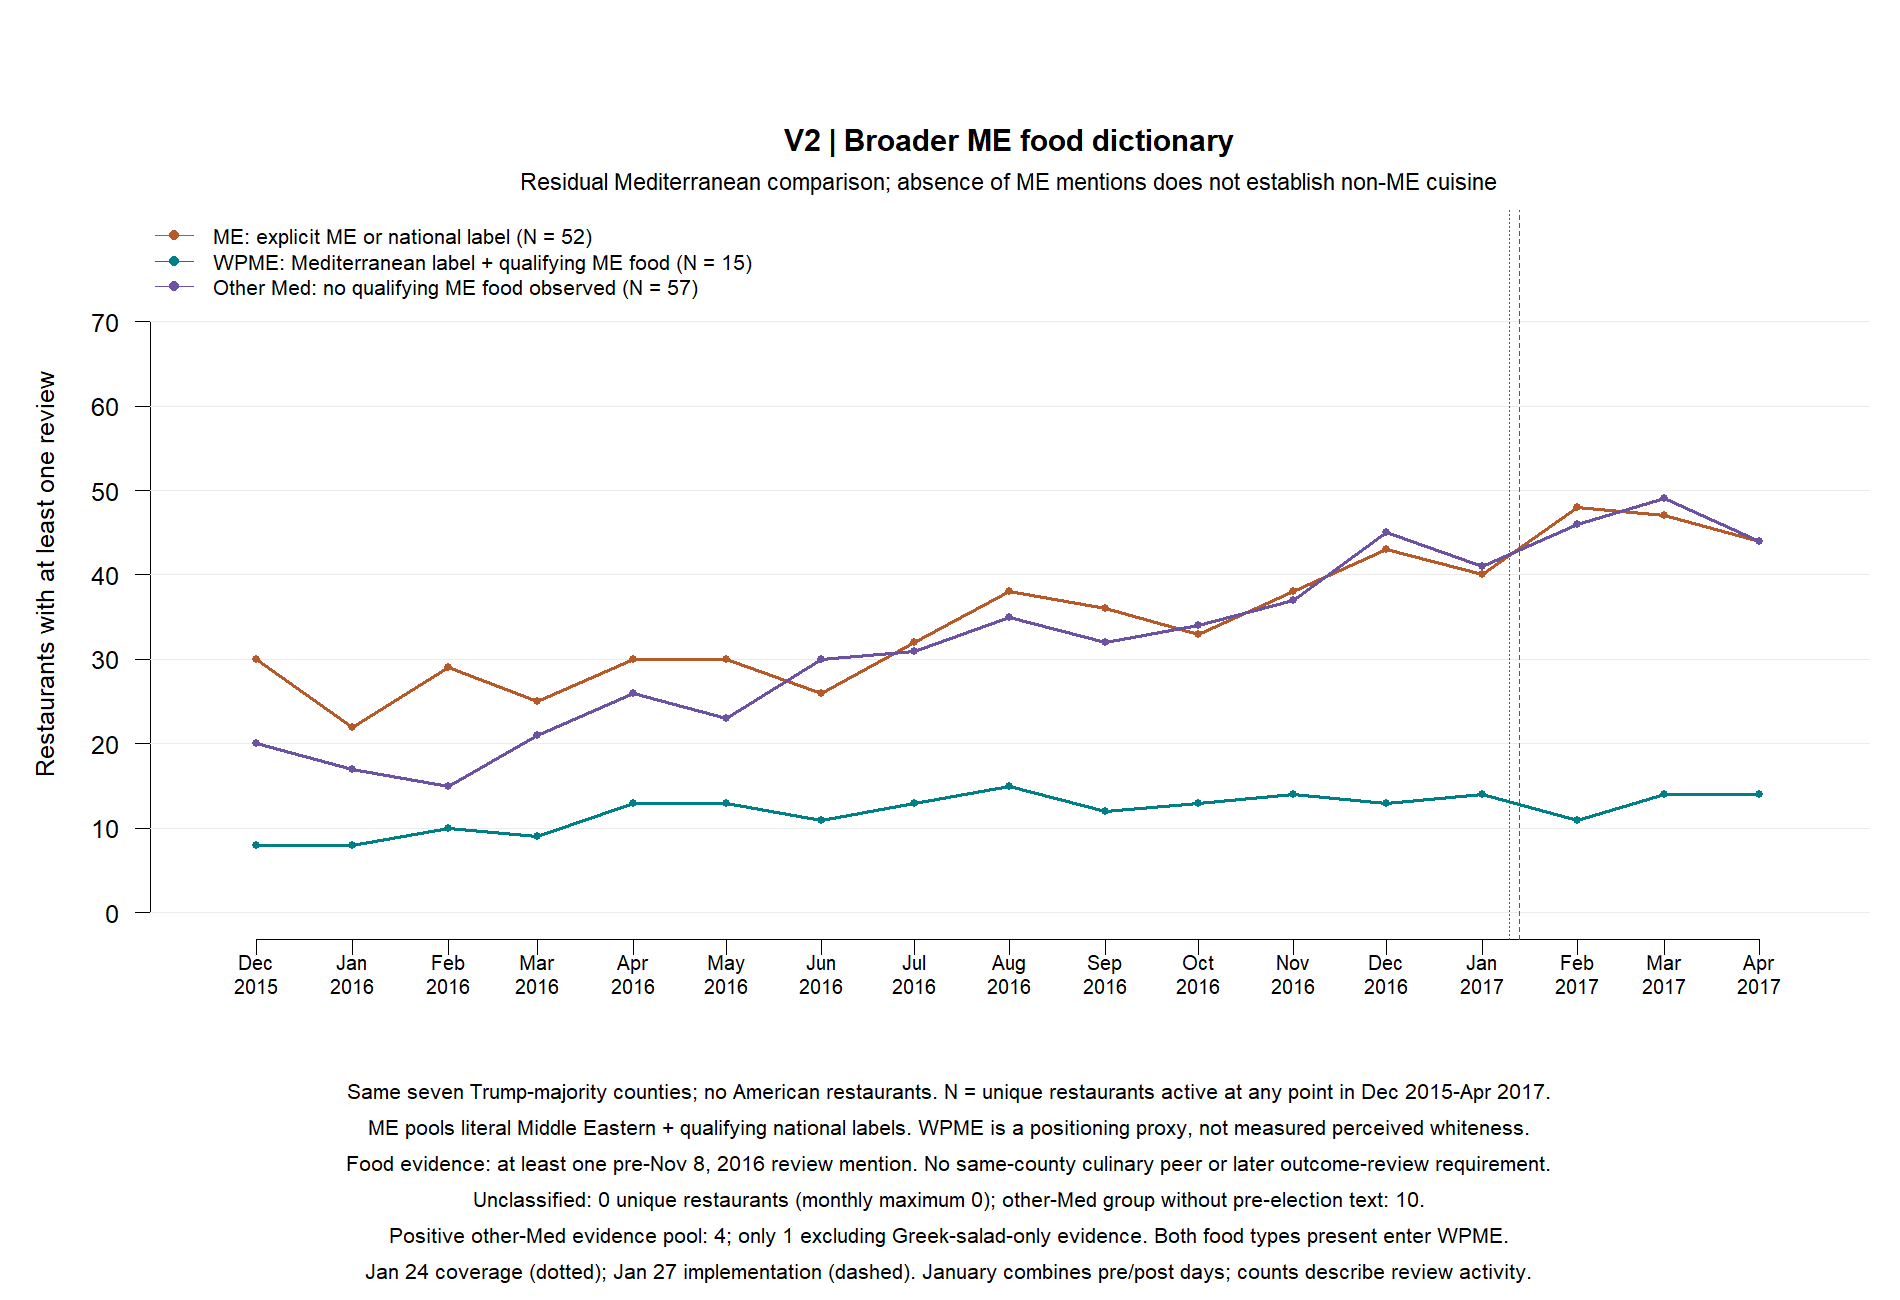
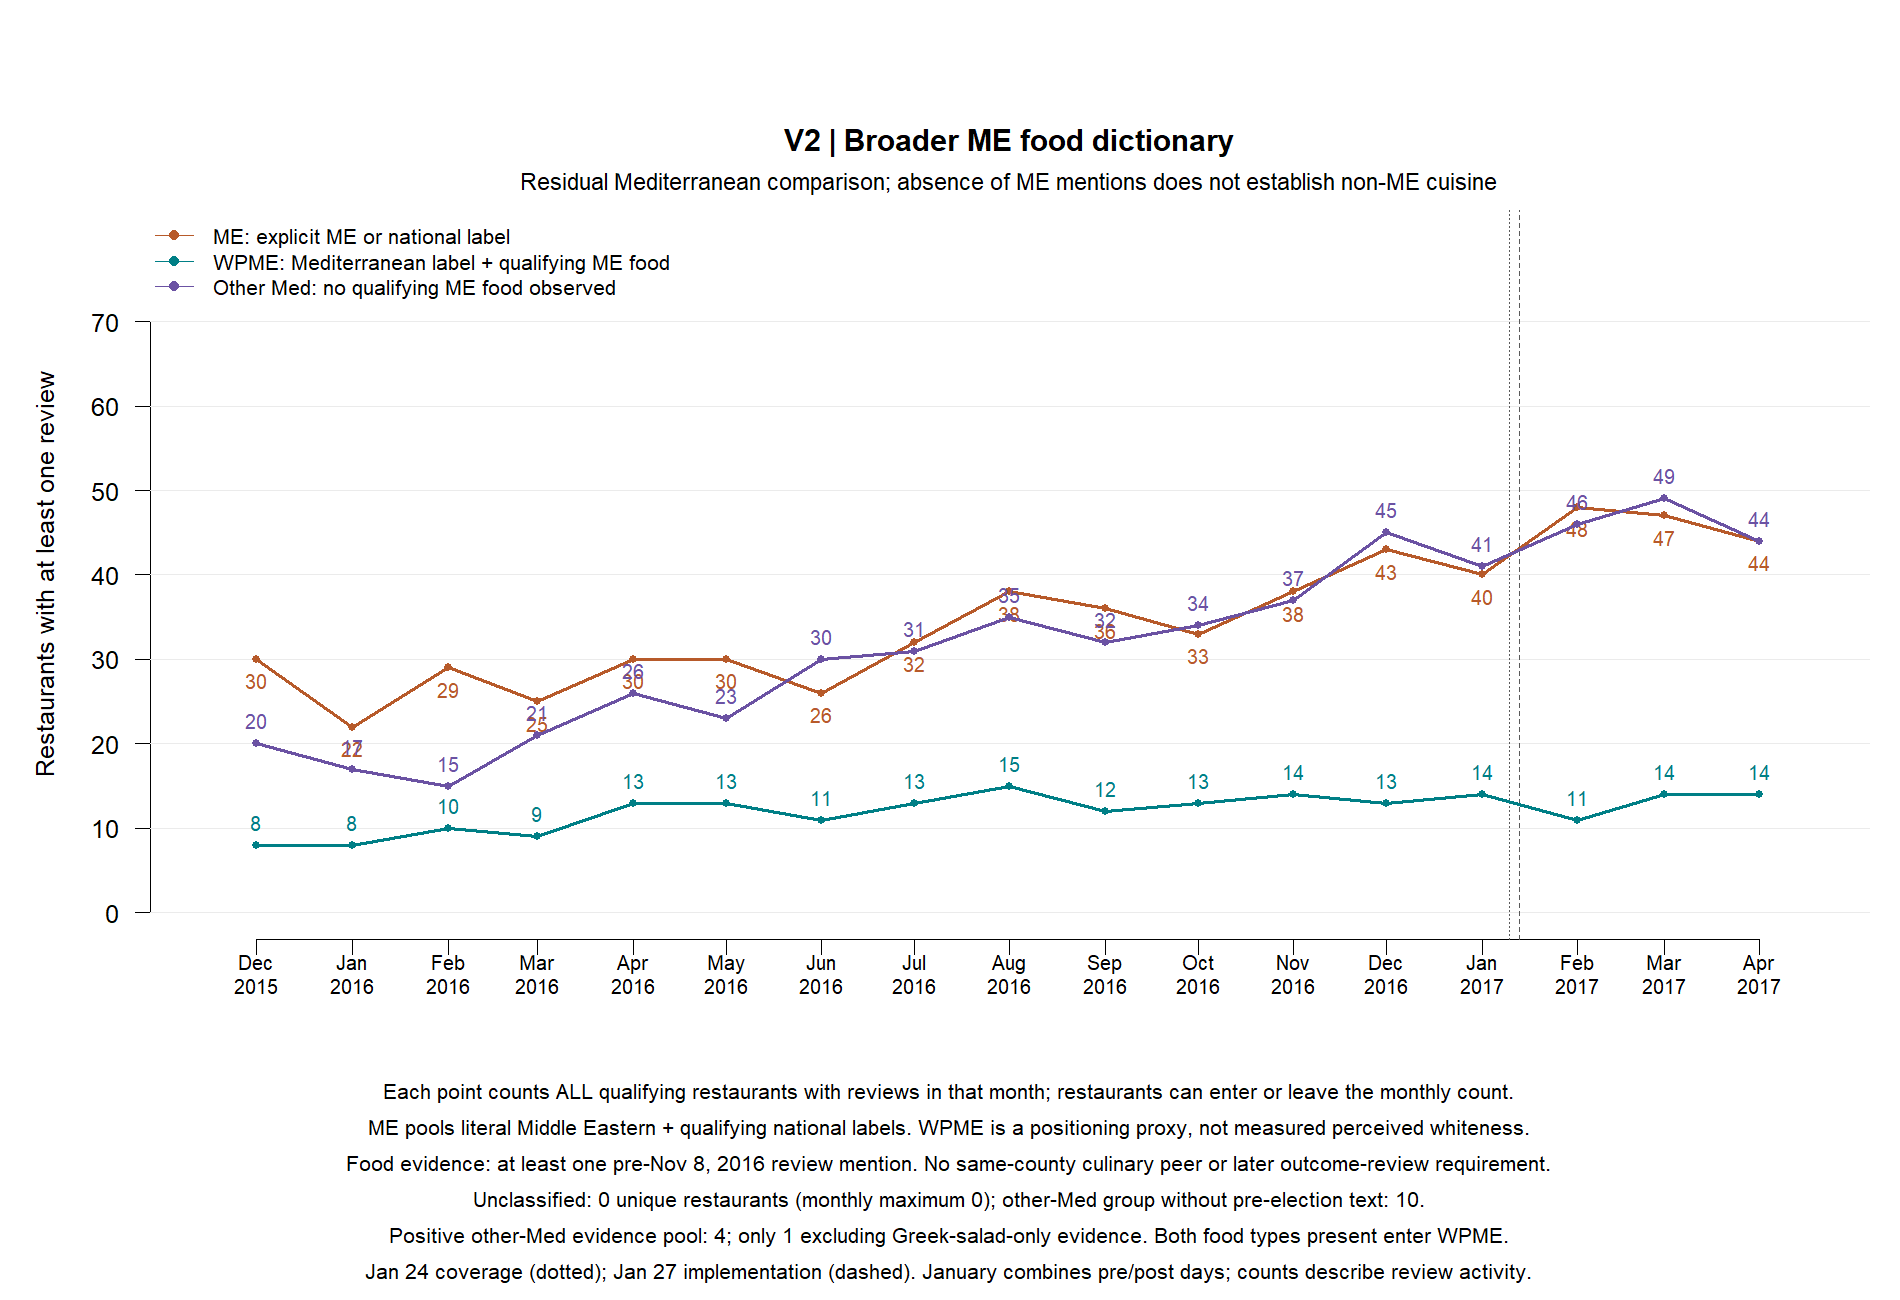
Clarify available-month counts and annotate every monthly restaurant count

diff --git a/associational_analysis/README.md b/associational_analysis/README.md
@@ -125,4 +125,6 @@ V2/V4 are residual classifications, not verified non-ME cuisine. They can includ
 
 Outputs with prefix `positioning_variants` contain four separate figures, monthly activity, unique counts, before/after overlap, mixed-food evidence counts, the Greek-salad sensitivity, source audit and partition validation. Private business assignments are not uploaded. The before/after table continues to use December 27-January 23 and January 27-February 23, 28 days each.
 
+For clarity, the four figures now annotate the number of restaurants at every monthly point and omit across-period N labels from their legends. The data are unchanged: all qualifying restaurants with a review in each month are counted; there is no fixed/balanced review cohort or requirement to appear both before and after. Food assignments still use the pre-election dictionary evidence described above; classifications do not update using newly arriving monthly reviews.
+
 
